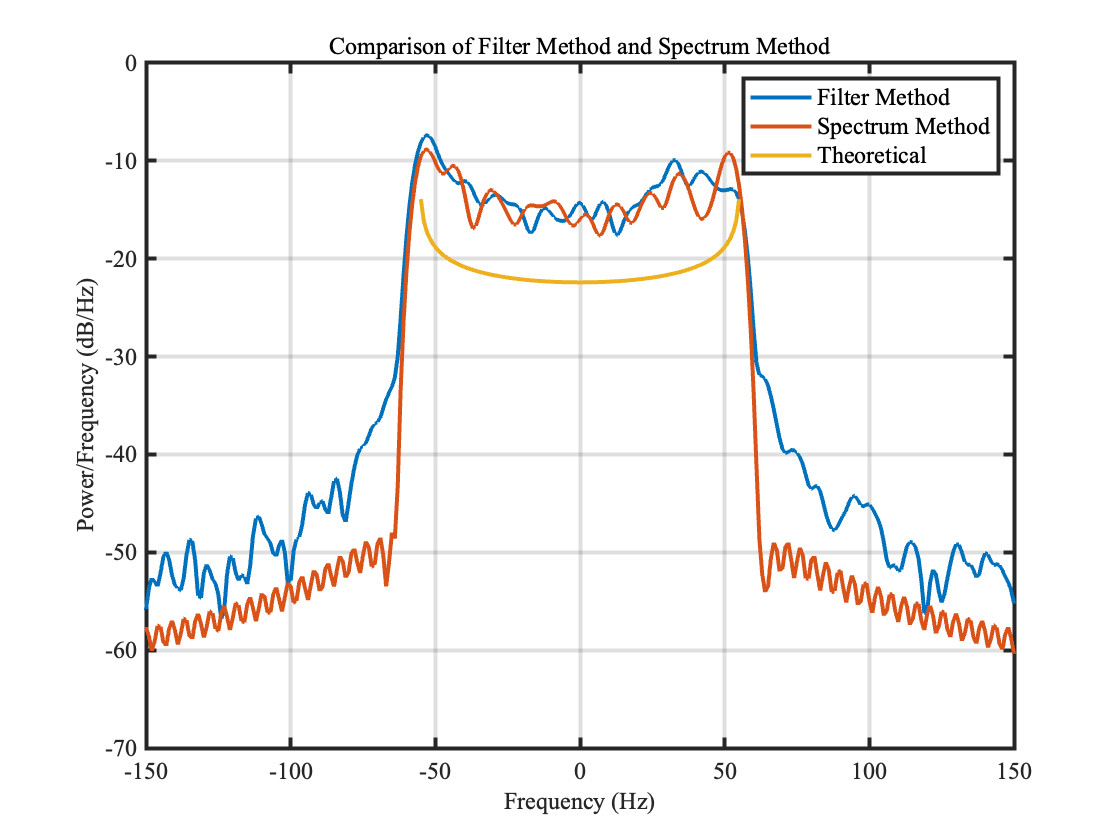
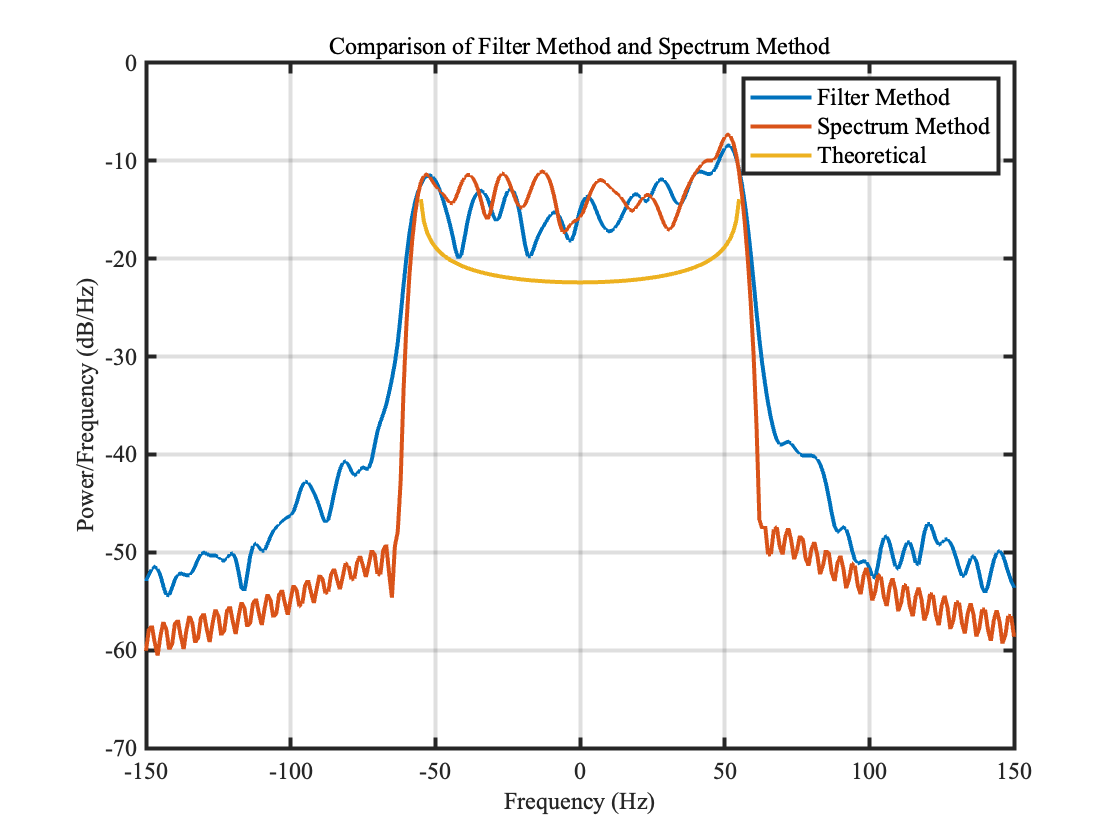
update

Changed region(s): [[0.125, 0.1548, 0.9062, 0.7738]]

diff --git a/Part_A.m b/Part_A.m
@@ -11,7 +11,7 @@ MPS=1;
 KPH=1/3.6;
 ms=1e-3;
 Hz=1;
-
+rng(20020512);
 %%
 %global parameter setting
 frequency_carrier = 2*GHz; %carrier frequency
@@ -66,6 +66,9 @@ number_of_histogram=100;
 storage_pdf=zeros(9,number_of_histogram);
 storage_xaxis=zeros(9,number_of_histogram);
 storage_cdf=zeros(9,number_of_histogram);
+storage_xcorr=zeros(6,2*number_of_samping-1);
+storage_xcorr_xaxis=zeros(6,2*number_of_samping-1);
+storage_xcorr_theoretical=zeros(3,2*number_of_samping-1);
 for num=1:3
    Rician_filter_method = Rician_kc(output_of_filter_discard,Kc(num));
    Rician_spectrum_method = Rician_kc(channel_time_domain,Kc(num));
@@ -84,7 +87,15 @@ tmp_sigma_square=1/(Kc(num)+1);
 Rician_theoretical=abs((xaxis./tmp_sigma_square).*exp(-(xaxis.^2+tmp_s_square)./(2*tmp_sigma_square)).*besselj(0,(sqrt(tmp_s_square).*xaxis)./(tmp_sigma_square)));
 storage_pdf(3*num,:)=Rician_theoretical./sum(Rician_theoretical);
 storage_xaxis(3*num,:)=xaxis;
+[temp_xcorr,temp_xcorr_xaxis]=xcorr((Rician_filter_method),'unbiased');
+storage_xcorr(2*num-1,:)=temp_xcorr';
+storage_xcorr_xaxis(2*num-1,:)=temp_xcorr_xaxis;
+[temp_xcorr,temp_xcorr_xaxis]=xcorr((Rician_spectrum_method),'unbiased');
+storage_xcorr(2*num,:)=temp_xcorr';
+storage_xcorr_xaxis(2*num,:)=temp_xcorr_xaxis;
+storage_xcorr_theoretical(num,:)=besselj(0,2*pi*frequency_doppler_shift.*temp_xcorr_xaxis);
 end
+%%
 %%using subplot to plot(Rician_theoretical_pdf Rician_spectrum_method Rician_filter_method with same kc() in the same subplot, so we have just 3 subplots)
 figure(2);
 subplot(3,1,1);
@@ -125,6 +136,85 @@ set(findall(gcf,'-property','MarkerSize'),'MarkerSize',10);
 set(gca,'FontName','Times New Roman');
 
 
+%%
+%figure compared rician channel(filter method VS spectrum method vs theoretical) cdf version (kc=0,1,10) using cumsum
+figure(3);
+subplot(3,1,1);
+plot(storage_xaxis(1,:),cumsum(storage_pdf(1,:)),storage_xaxis(2,:),cumsum(storage_pdf(2,:)),storage_xaxis(3,:),cumsum(storage_pdf(3,:)));
+xlim([0 2.5]);
+xlabel('Amplitude');
+ylabel('Probability');
+legend('Filter Method','Spectrum Method','Theoretical');
+title('Rician Channel CDF (Kc=0)');
+grid on;
+set(findall(gcf,'-property','FontSize'),'FontSize',12);
+set(findall(gcf,'-property','LineWidth'),'LineWidth',2);
+set(findall(gcf,'-property','MarkerSize'),'MarkerSize',10);
+set(gca,'FontName','Times New Roman');
+subplot(3,1,2);
+plot(storage_xaxis(4,:),cumsum(storage_pdf(4,:)),storage_xaxis(5,:),cumsum(storage_pdf(5,:)),storage_xaxis(6,:),cumsum(storage_pdf(6,:)));
+xlim([0 2.5]);
+xlabel('Amplitude');
+ylabel('Probability');
+legend('Filter Method','Spectrum Method','Theoretical');
+title('Rician Channel CDF (Kc=1)');
+grid on;
+set(findall(gcf,'-property','FontSize'),'FontSize',12);
+set(findall(gcf,'-property','LineWidth'),'LineWidth',2);
+set(findall(gcf,'-property','MarkerSize'),'MarkerSize',10);
+set(gca,'FontName','Times New Roman');
+subplot(3,1,3);
+plot(storage_xaxis(7,:),cumsum(storage_pdf(7,:)),storage_xaxis(8,:),cumsum(storage_pdf(8,:)),storage_xaxis(9,:),cumsum(storage_pdf(9,:)));
+xlim([0 2.5]);
+xlabel('Amplitude');
+ylabel('Probability');
+legend('Filter Method','Spectrum Method','Theoretical');
+title('Rician Channel CDF (Kc=10)');
+grid on;
+set(findall(gcf,'-property','FontSize'),'FontSize',12);
+set(findall(gcf,'-property','LineWidth'),'LineWidth',2);
+set(findall(gcf,'-property','MarkerSize'),'MarkerSize',10);
+set(gca,'FontName','Times New Roman');
+
+%%
+%figure compared rician channel(filter method VS spectrum method vs theoretical) xcorr version (kc=0,1,10)
+figure(4);
+subplot(3,1,1);
+plot(storage_xcorr_xaxis(1,:),storage_xcorr(1,:),storage_xcorr_xaxis(2,:),storage_xcorr(2,:),storage_xcorr_xaxis(2,:),storage_xcorr_theoretical(1,:));
+xlim([-1000 1000]);
+xlabel('Lag');
+ylabel('Correlation');
+legend('Filter Method','Spectrum Method','Theoretical');
+title('Rician Channel Autocorrelation (Kc=0)');
+grid on;
+set(findall(gcf,'-property','FontSize'),'FontSize',12);
+set(findall(gcf,'-property','LineWidth'),'LineWidth',2);
+set(findall(gcf,'-property','MarkerSize'),'MarkerSize',10);
+set(gca,'FontName','Times New Roman');
+subplot(3,1,2);
+plot(storage_xcorr_xaxis(3,:),storage_xcorr(3,:),storage_xcorr_xaxis(4,:),storage_xcorr(4,:),storage_xcorr_xaxis(4,:),storage_xcorr_theoretical(2,:));
+xlim([-1000 1000]);
+xlabel('Lag');
+ylabel('Correlation');
+legend('Filter Method','Spectrum Method','Theoretical');
+title('Rician Channel Autocorrelation (Kc=1)');
+grid on;
+set(findall(gcf,'-property','FontSize'),'FontSize',12);
+set(findall(gcf,'-property','LineWidth'),'LineWidth',2);
+set(findall(gcf,'-property','MarkerSize'),'MarkerSize',10);
+set(gca,'FontName','Times New Roman');
+subplot(3,1,3);
+plot(storage_xcorr_xaxis(5,:),storage_xcorr(5,:),storage_xcorr_xaxis(6,:),storage_xcorr(6,:),storage_xcorr_xaxis(6,:),storage_xcorr_theoretical(3,:));
+xlim([-1000 1000]);
+xlabel('Lag');
+ylabel('Correlation');
+legend('Filter Method','Spectrum Method','Theoretical');
+title('Rician Channel Autocorrelation (Kc=10)');
+grid on;
+set(findall(gcf,'-property','FontSize'),'FontSize',12);
+set(findall(gcf,'-property','LineWidth'),'LineWidth',2);
+set(findall(gcf,'-property','MarkerSize'),'MarkerSize',10);
+set(gca,'FontName','Times New Roman');
 
 
 
